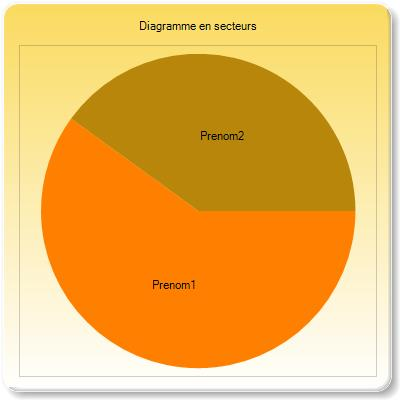
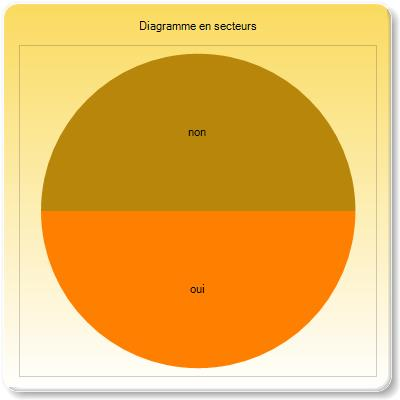
Ajout try catch vide pour anti spam sur page de resultat

Changed region(s): [[0.09, 0.3, 0.51, 0.54], [0.36, 0.69, 0.51, 0.75], [0.48, 0.3, 0.63, 0.36]]

diff --git a/C Sharp VF/DCSONDAGE V1/Controllers/HomeController.cs b/C Sharp VF/DCSONDAGE V1/Controllers/HomeController.cs
@@ -155,31 +155,44 @@ namespace DCSONDAGE_V1.Controllers
             }
             AfficheResultat affiche2 = BDD.RequeteSqlRecupListeChoixetIdetNbVote(id);
             CreationCamembert camembert = BDD.RequeteSqlPourCamembert(id);
+            try
+            {
+                Chart diagrammeEnSecteurs = new Chart(width: 400, height: 400, theme: ChartTheme.Yellow).AddTitle("Diagramme en secteurs")
+                                                                                        .AddSeries("Default",
 
-            Chart diagrammeEnSecteurs = new Chart(width: 400, height: 400, theme: ChartTheme.Yellow).AddTitle("Diagramme en secteurs")
-                                                                                          .AddSeries("Default",
+                                                                                          chartType: "Pie",
 
-                                                                                            chartType: "Pie",// pas changé
+                                                                                          xValue: camembert.listeChoixVote,
+                                                                                          xField: "listeChoixVote", 
 
-                                                                                            xValue: camembert.listeChoixVote,
-                                                                                            xField: "listeChoixVote", // a changer par nomChoix
+                                                                                          yValues: camembert.listePourcentage,
+                                                                                          yFields: "ListePourcentage")
 
-                                                                                            yValues: camembert.listePourcentage,
-                                                                                            yFields: "ListePourcentage")
+                                                                                        .Save("~/Content/DiagrammeEnSecteurs.jpeg");
+            }
+            catch (Exception)
+            {
+                // le try catche ne fait rien car il est uniquement pour gerrer les cas ou il y a trop de connection en meme temps et que le pc n'a pas le temps de sauvegarder la nouvelle image 
+            }
+            
+            try
+            {
 
-                                                                                          .Save("~/Content/DiagrammeEnSecteurs.jpeg"); //  a changer par la sum des votes de chaque choix
-          
-
-            Chart histogramme = new Chart(width: 400, height: 400, theme: ChartTheme.Yellow).AddTitle("Histogramme")
-                                                                                           .AddSeries("Default", // pas changé
+                Chart histogramme = new Chart(width: 400, height: 400, theme: ChartTheme.Yellow).AddTitle("Histogramme")
+                                                                                           .AddSeries("Default", 
 
                                                                                                 xValue: affiche2.listeNomChoixPourModel,
-                                                                                                xField: "listeNomChoixPourModel", // a changer par nomChoix
+                                                                                                xField: "listeNomChoixPourModel", 
 
                                                                                                 yValues: affiche2.pourcentageParChoixPourModel,
                                                                                                 yFields: "pourcentageParChoixPourModel")
 
-                                                                                            .Save("~/Content/Histogramme.jpeg"); //  a changer par la sum des votes de chaque choix
+                                                                                            .Save("~/Content/Histogramme.jpeg"); 
+            }
+            catch (Exception)
+            {
+                // le try catche ne fait rien car il est uniquement pour gerrer les cas ou il y a trop de connection en meme temps et que le pc n'a pas le temps de sauvegarder la nouvelle image 
+            }
 
             return View("AffichageResultat", affiche2);
         }
